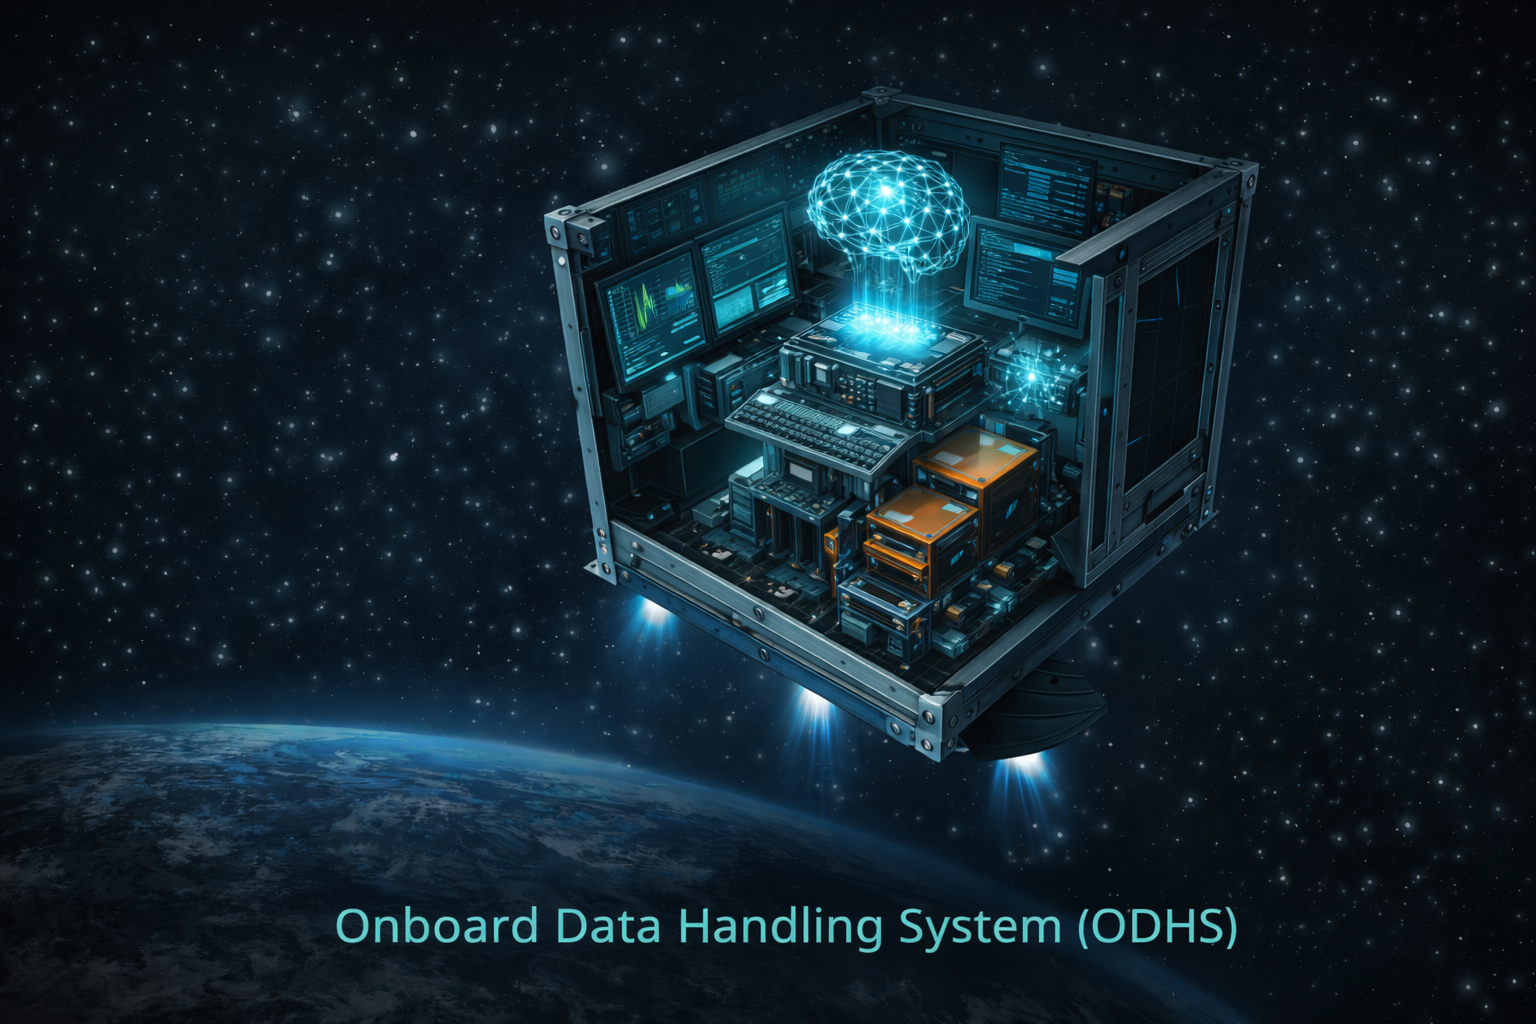
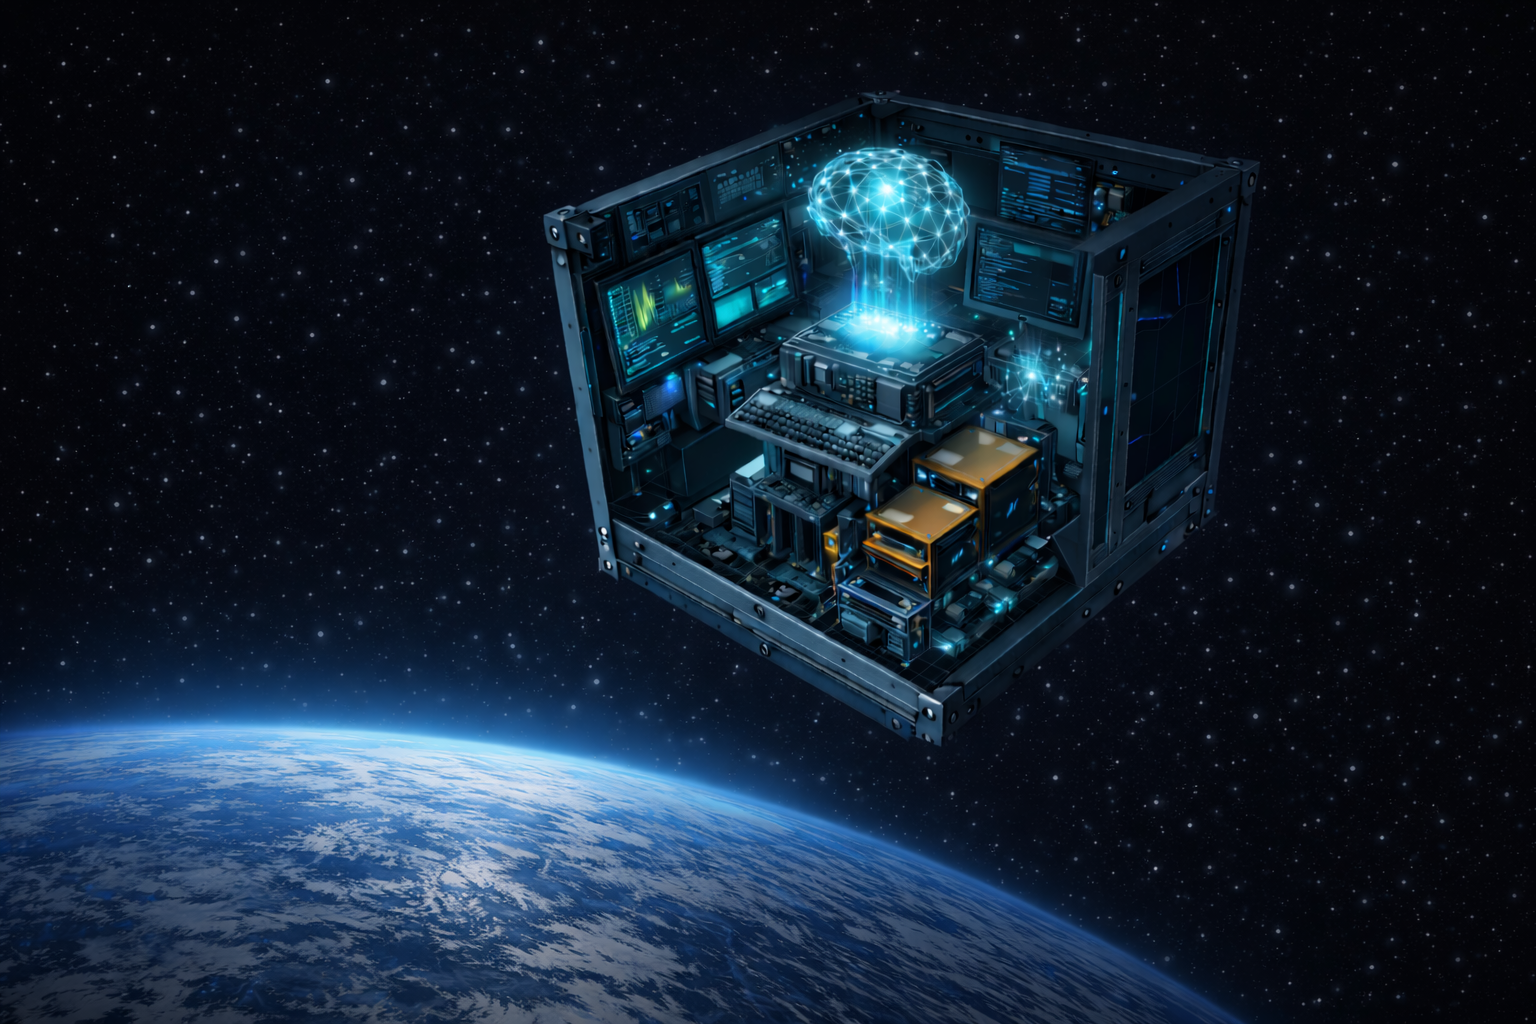
Updated subsystem images and content

diff --git a/src/v1/SubsystemsPage.tsx b/src/v1/SubsystemsPage.tsx
@@ -114,7 +114,7 @@ function SubsystemsPage() {
         'DC-DC Converters',
         'Power Management Controller'
       ],
-      imageSrc: 'https://example.com/images/eps.jpg'
+      imageSrc: '/assets/subsystem_images/eps.png'
     },
     {
       id: 'odhs',
@@ -176,7 +176,7 @@ function SubsystemsPage() {
         'Conference & Publication Outreach',
         'Student Research Mentorship Program'
       ],
-      imageSrc: 'https://example.com/images/research.jpg'
+      imageSrc: '/assets/subsystem_images/research.png'
     },
     {
       id: 'stms',
@@ -212,11 +212,7 @@ function SubsystemsPage() {
         'Handle permissions and negotiations with whichever organizations we are affiliated with - university, space agencies, sponsors, etc'
       ],
       components: [
-        'Mission Control Software',
-        'Ground Station Interface System',
-        'Configuration Management Tools',
-        'Operations Documentation System',
-        'Emergency Response Protocols'
+        
       ],
       imageSrc: '/assets/subsystem_images/admin.png'
     }
@@ -390,30 +386,31 @@ function SubsystemsPage() {
                   ))}
                 </ul>
                 
-                <h3 className="text-xl font-bold mb-4 text-[#7AECEC]">Major Components</h3>
-                <ul className="space-y-2">
-                  {activeSystem.components.map((component, index) => (
-                    <li key={index} className="flex items-center">
-                      <div className="w-2 h-2 bg-[#7AECEC] rounded-full mr-3"></div>
-                      <span className="text-[rgba(122,236,236,0.8)]">{component}</span>
-                    </li>
-                  ))}
-                </ul>
+                {/* Only show Major Components if there are any */}
+                {activeSystem.components.length > 0 && (
+                  <>
+                    <h3 className="text-xl font-bold mb-4 text-[#7AECEC]">Major Components</h3>
+                    <ul className="space-y-2">
+                      {activeSystem.components.map((component, index) => (
+                        <li key={index} className="flex items-center">
+                          <div className="w-2 h-2 bg-[#7AECEC] rounded-full mr-3"></div>
+                          <span className="text-[rgba(122,236,236,0.8)]">{component}</span>
+                        </li>
+                      ))}
+                    </ul>
+                  </>
+                )}
+
               </div>
               
-              <div className="bg-[#0A0A0A] rounded-lg p-4 flex items-center justify-center border border-[rgba(122,236,236,0.2)]">
-                <div className="text-center">
-                  <p className="text-[rgba(122,236,236,0.6)] mb-2">Subsystem Illustration</p>
-                  <div className="bg-[#111111] p-4 rounded border border-[rgba(122,236,236,0.2)] inline-block">
-                  <img
-                      src={activeSystem.imageSrc}
-                      alt={activeSystem.name}
-                      className="w-full h-64 object-cover rounded border border-[rgba(122,236,236,0.2)]"
-                    />
-
-                  </div>
-                </div>
+              <div className="bg-[#0A0A0A] rounded-lg p-4 flex items-center justify-center overflow-hidden">
+                <img
+                  src={activeSystem.imageSrc}
+                  alt={activeSystem.name}
+                  className="w-full h-80 object-cover rounded border border-[rgba(122,236,236,0.2)]"
+                />
               </div>
+
             </div>
           </section>
         )}
